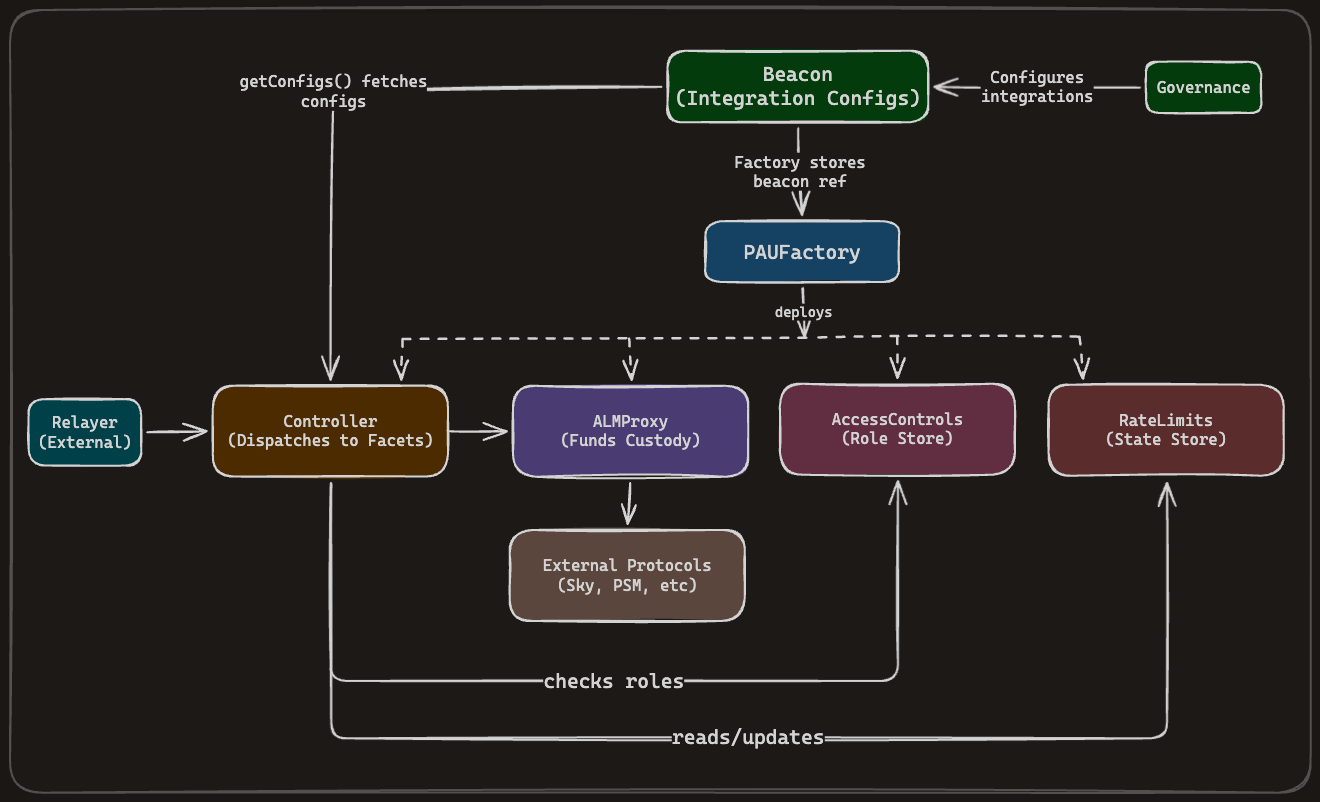
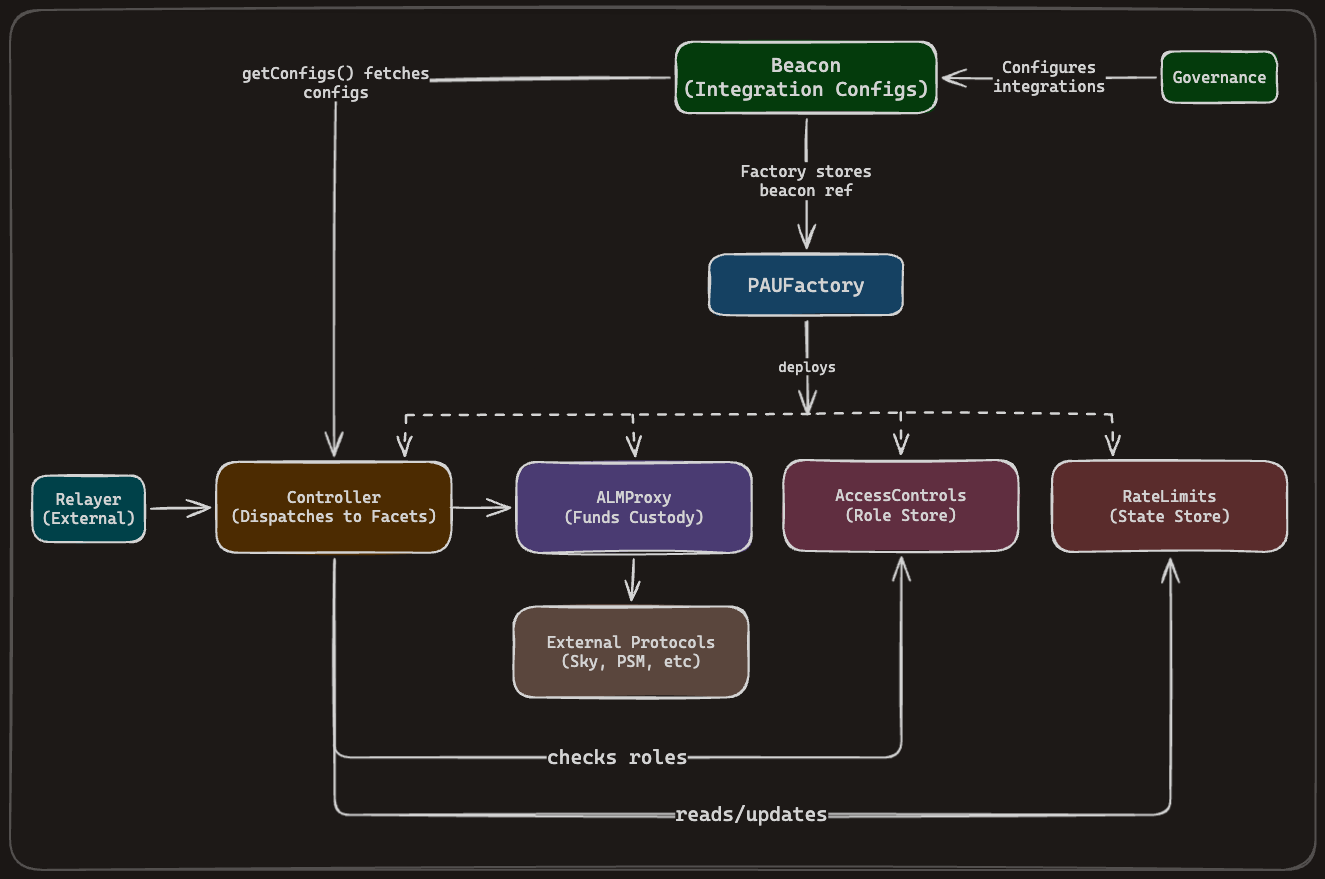
fix: review comments

diff --git a/docs/ARCHITECTURE.md b/docs/ARCHITECTURE.md
@@ -34,17 +34,17 @@ The unified controller contract that serves as the entry point for all relayer o
 
 ### Beacon
 
-The single source of truth for all integration configurations. The Beacon manages the lifecycle of integrations (facet address + wire mappings) and stores the canonical dispatch lookup. Multiple Controllers can reference the same Beacon, each syncing its local config copy via `updateIntegrations`. The Beacon admin (`DEFAULT_ADMIN_ROLE`) configures integrations, and the Beacon validates facet addresses, prevents duplicate selector wiring, and protects hardcoded Controller selectors.
+The Beacon manages all data related to integrations (facet address + wire mappings) and stores the canonical dispatch lookup. Multiple Controllers can reference the same Beacon, each syncing its local config copy via `updateIntegrations`. The Beacon admin (`DEFAULT_ADMIN_ROLE`) configures integrations, and the Beacon validates facet addresses, prevents duplicate selector wiring, and protects hardcoded Controller selectors. Controllers use this syncing pattern to opt in to upgrades from the Beacon.
 
 See [BEACON.md](./BEACON.md) for data structures, integration lifecycle, hardcoded selector protection, and versioning details.
 
 ### PAUFactory
 
-Factory contract for deploying complete PAU systems. Takes a Beacon address at construction. The `deploy` function atomically creates an `ALMProxy`, `RateLimits`, `AccessControls`, and `Controller` (pointing to the shared Beacon), wires their roles, and transfers admin ownership to the caller-specified admin.
+Factory contract for deploying complete PAU systems. Takes a Beacon address at construction. The `deploy` function atomically creates an `ALMProxy`, `RateLimits`, `AccessControls`, and `Controller` (pointing to the shared Beacon), wires their roles, and transfers admin ownership to the caller-specified admin. Existing PAU systems that will upgrade to use the new controller do not have to deploy from the factory. This factory is to make PAU deployments more convenient for new systems.
 
 ### AccessControls
 
-Wraps OpenZeppelin `AccessControlEnumerable` to define the PAU-specific roles used by facets at runtime. Declares `FREEZER_ROLE` and `RELAYER_ROLE` as constants. Provides a `removeRelayer` function gated by `FREEZER_ROLE` for emergency revocation of a compromised relayer without requiring a slower governance process.
+Wraps OpenZeppelin `AccessControlEnumerable` to define the PAU-specific roles used by facets at runtime. Declares `FREEZER_ROLE` and `RELAYER_ROLE` as constants. Provides a `removeRelayer` function gated by `FREEZER_ROLE` for emergency revocation of a compromised relayer without requiring a slower governance process. A separate contract was used here to make facet development easier (external call to a module vs. maintaining ACL storage across all facets).
 
 ### RateLimits
 

diff --git a/docs/PAU_FACTORY.md b/docs/PAU_FACTORY.md
@@ -6,6 +6,8 @@ This document describes the `PAUFactory` contract, the deployment contract for c
 
 PAUFactory serves one role: **atomic deployment** of complete PAU systems (ALMProxy, RateLimits, AccessControls, Controller) via a single `deploy()` call. The factory takes a Beacon address at construction and passes it to every Controller it deploys, so all Controllers share the same integration configuration source.
 
+> **Note:** Controllers deployed as upgrades to live systems are not required to use the factory. The factory exists purely for convenience when spinning up entirely new PAU deployments.
+
 ## Relationship to Beacon
 
 The factory does not manage integration configs or facet validation. That responsibility belongs entirely to the Beacon. The factory simply wires each new Controller to the shared Beacon so that the admin can later call `controller.updateIntegrations()` to sync configs from it.
